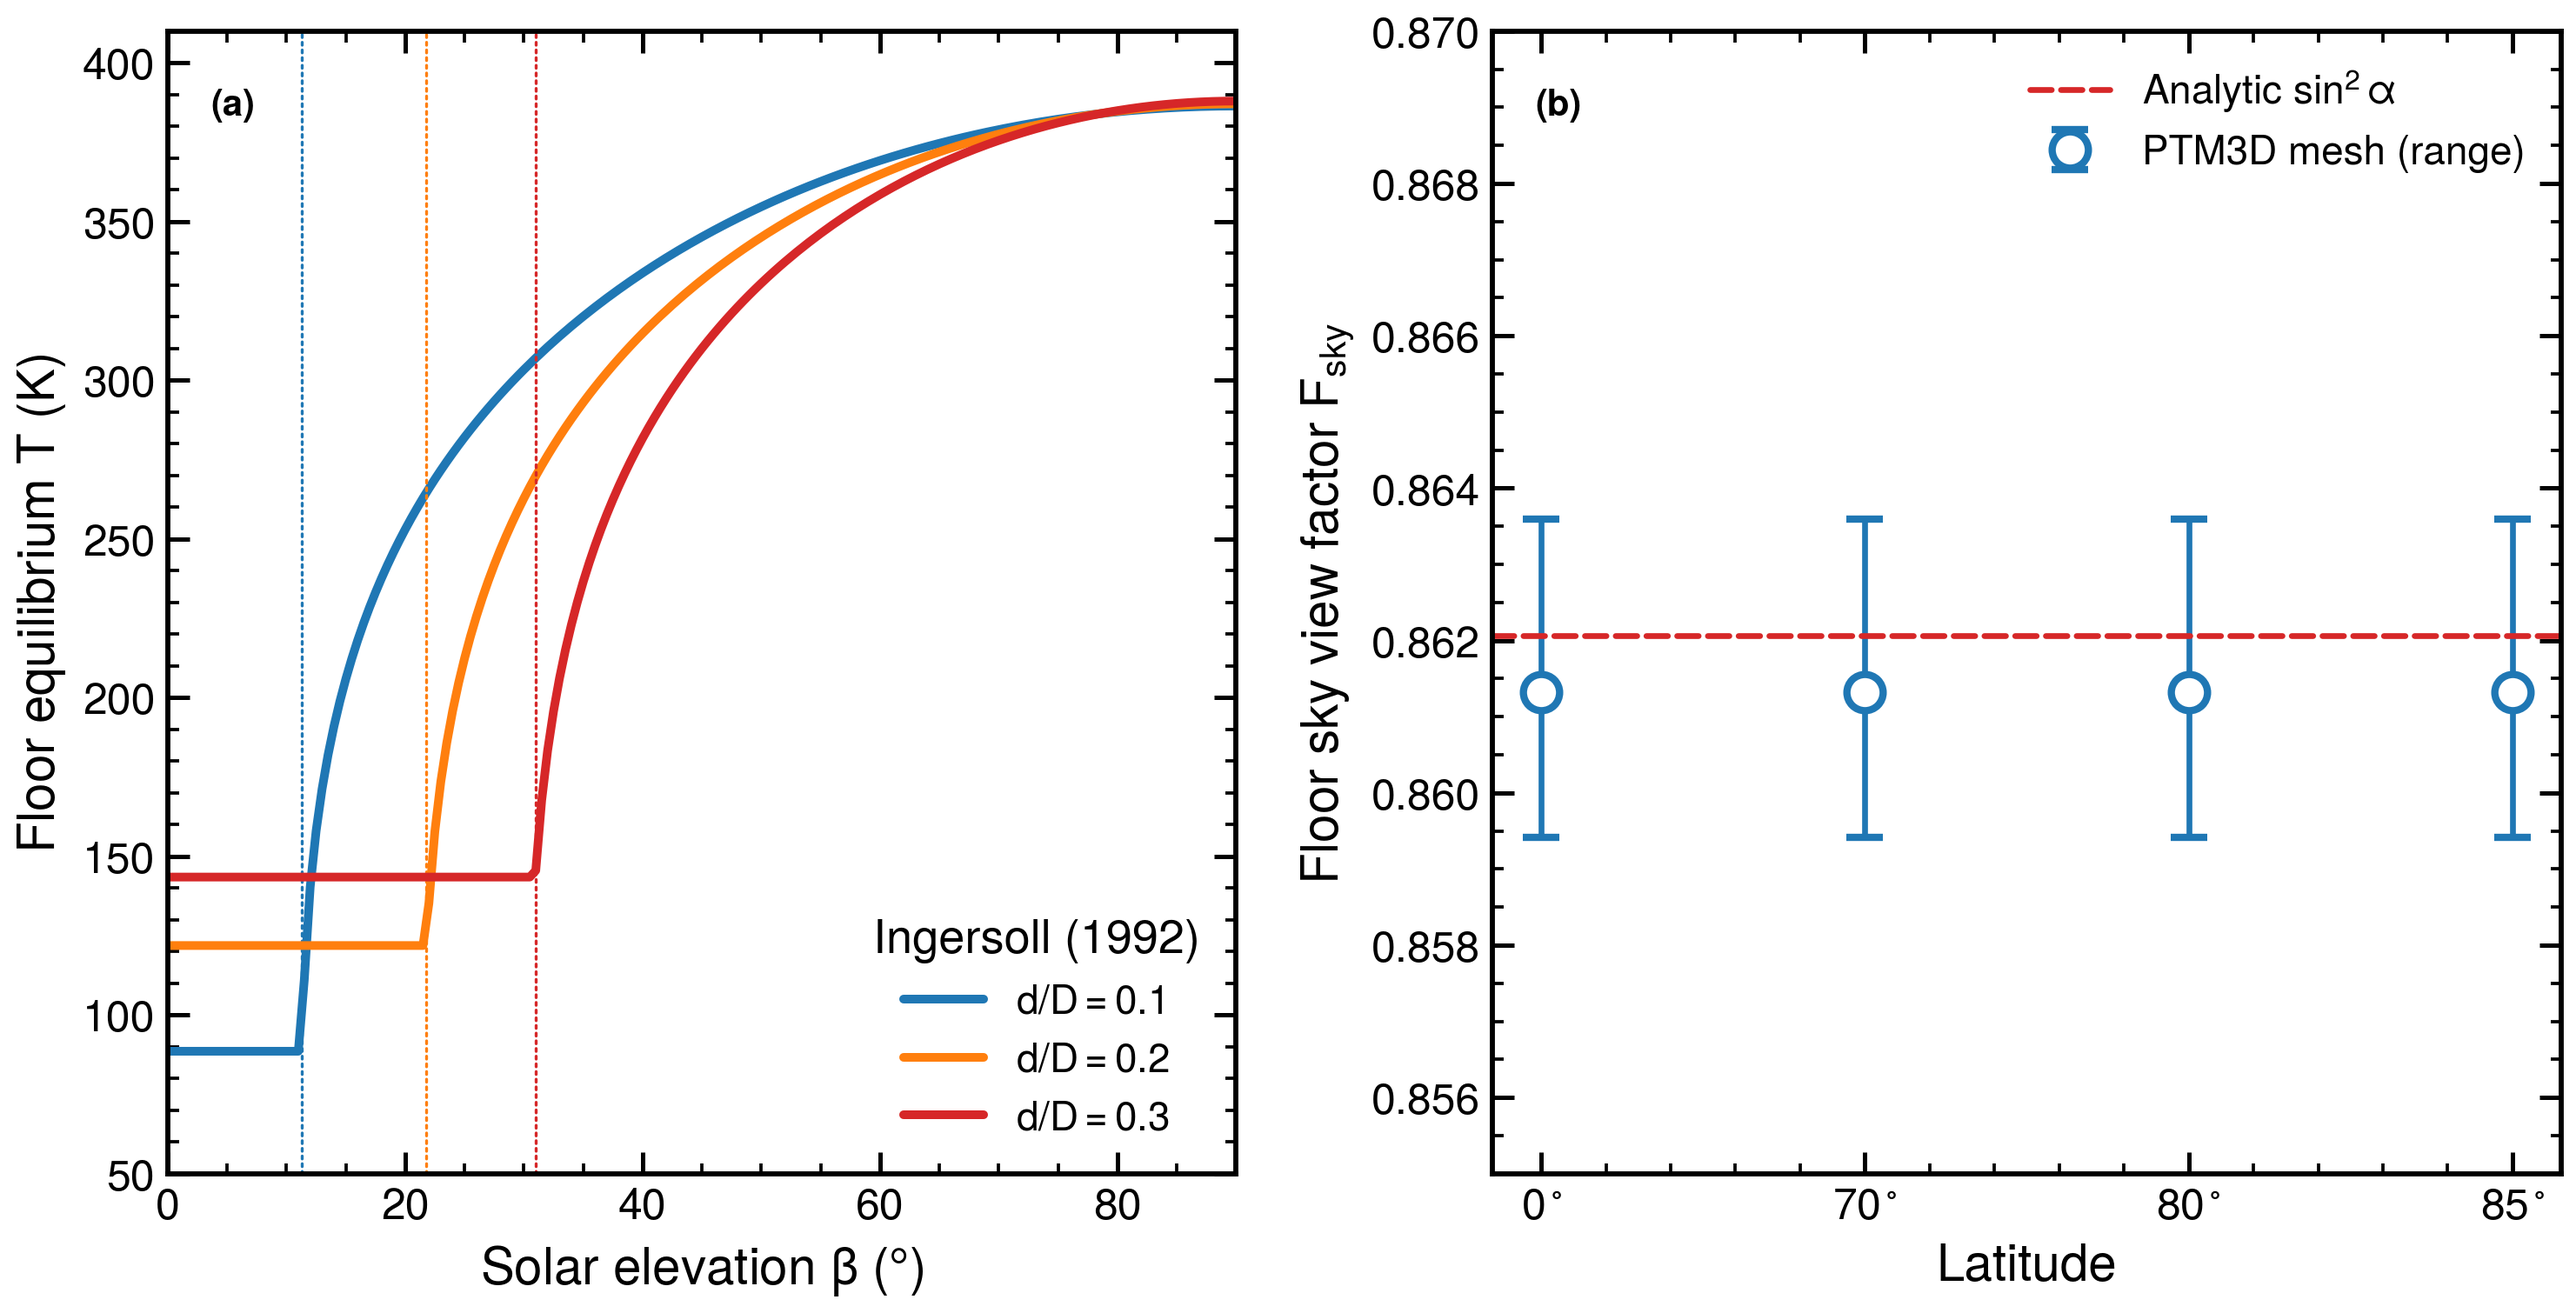
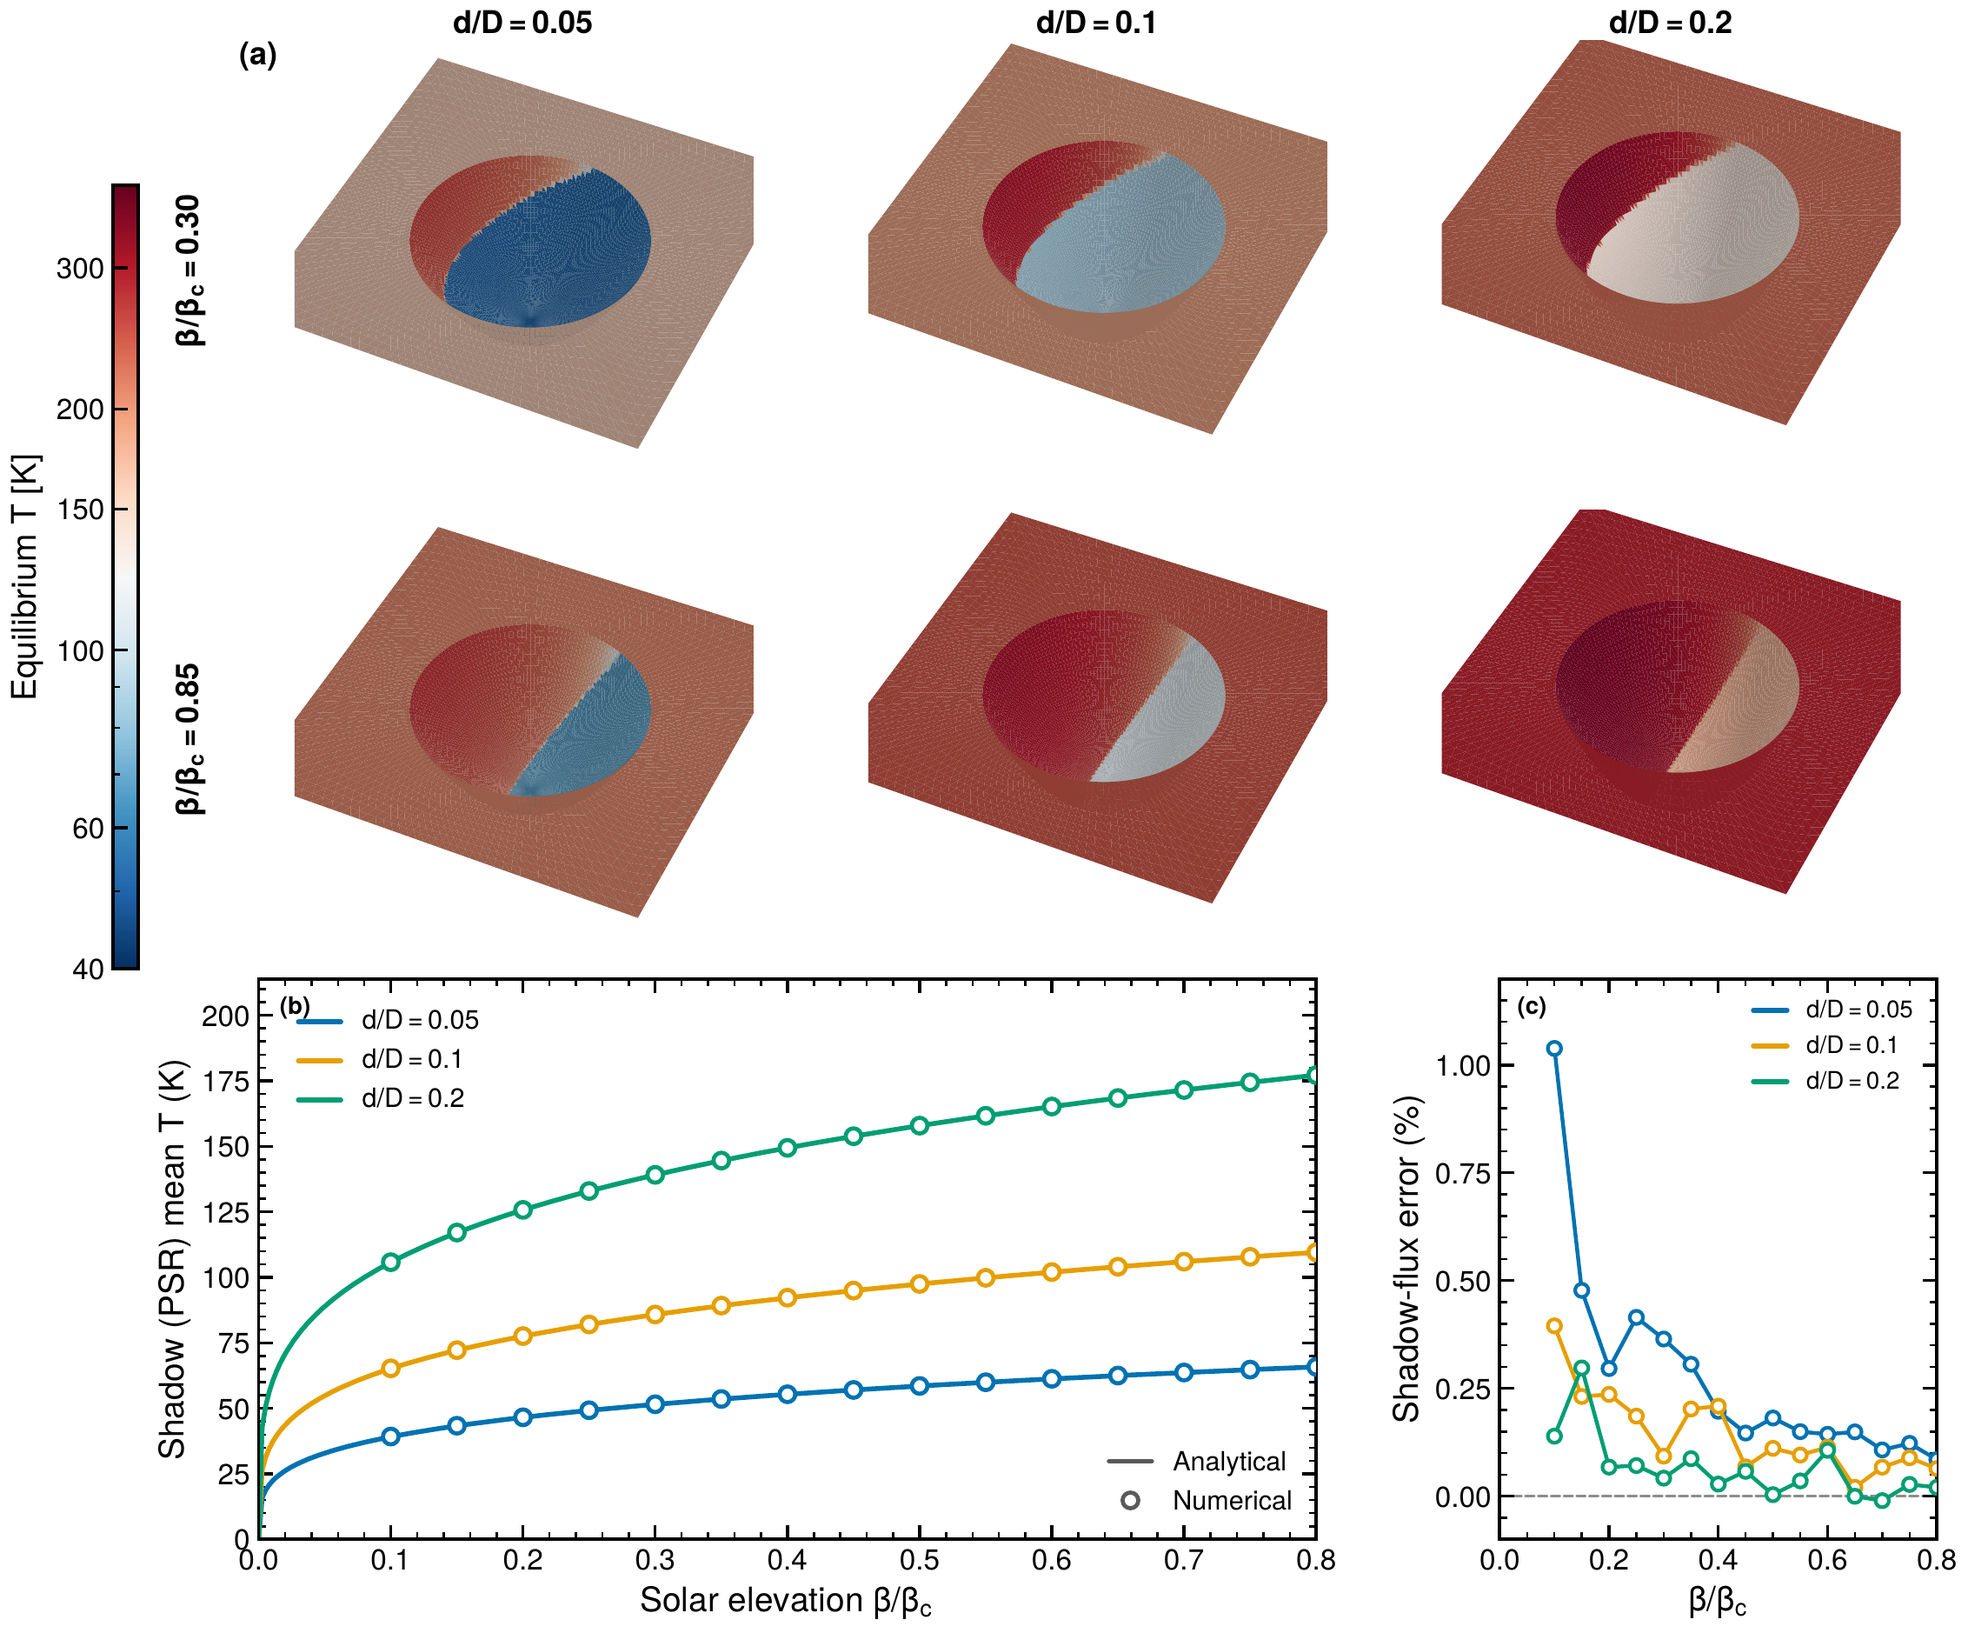
docs(readme): replace validation figures with the submitted-manuscript versions
The previous validation figures (commit 4ffea95) were sourced from
docs/ptm3d-thermal-radiation-methods-paper.md, an in-repo methods-paper draft
that is NOT the paper actually submitted to JGR: Planets. The submitted
source lives at (OneDrive, read-only, not touched):
  /Users/paha3326/Library/CloudStorage/OneDrive-UCB-O365/manuscripts/moon/moon3d

Source match: Moon3D_Paper_v6a.zip (internal file timestamps 2026-08-06
03:22) vs. Moon3D_Paper_v7_JGR.pdf (pdfinfo CreationDate 2026-08-06 16:13,
59 pages) -- v6a is the LaTeX source that was compiled into v7 roughly 13 h
later the same day. Unpacked to ~/projects/moon3d_paper_v7_scratch/v6a (NOT
OneDrive). Rendered fig07.pdf and fig09.pdf at 200/150 dpi via pdftoppm and
visually confirmed they match the corresponding v7 PDF pages (multi-panel
crater renders + 4-panel Diviner scatter, same content, same panel labels).

Figures identified from main.tex captions, not filenames (main.tex's own
\subsection{Validation} has three \subsubsection blocks: "Thermal model
validation" (Fig. 5, fig05.pdf), "Illumination model validation" (no new
figure), "Radiation exchange model validation" (Figs. 7-9, fig07-09.pdf)):

- docs/figures/validation_bowl_crater_ingersoll.png <- fig07.pdf (200 dpi,
  1.36 MB), \label{fig:bowl-crater}, main.tex:555-561. Ingersoll et al.
  (1992) bowl-crater test at full manuscript resolution (15,840 faces):
  PSR mean temperature within 0.1 K (<=0.26%), shadow flux within 1.2%.
[…]

diff --git a/README.md b/README.md
@@ -84,30 +84,36 @@ and thermal emission from surrounding terrain.*
   reproduces the analytic wall view factor to **0.49%** and satisfies view-factor
   reciprocity to machine precision. It is the gate every radiation change has to
   pass; the CPU build and this gate are wired into the repository's CI workflow
-  ([`.github/workflows/ci.yml`](.github/workflows/ci.yml), Linux + macOS)
-- **Diviner Lunar Radiometer Experiment** (compared via the Hayne et al. 2017
-  Diviner-derived lunar regolith model, not a direct replay of raw radiometer
-  counts): PTM3D's post-sunset cooling curve matches the published reference
-  points to **0.97 K RMS** across fifteen nighttime samples spanning three
-  latitudes
+  ([`.github/workflows/ci.yml`](.github/workflows/ci.yml), Linux + macOS). The
+  same comparison at full manuscript resolution (15,840 faces, swept solar
+  elevation) matches the analytic permanently-shadowed-interior temperature to
+  **0.1 K (≤0.26%)** and the analytic shadow flux to **≤1.2%**
+- **Diviner Lunar Radiometer Experiment**: PTM3D vs. the Williams et al. (2019)
+  seasonal south-polar bolometric temperature product at a Haworth-crater
+  cold-trap site (88.18°S, 6.04°E) — the previously reported PSR cold bias is
+  largely eliminated. Deep-floor (Diviner summer max < 110 K) summer-maximum
+  bias is **+1.9 K** on average (cross-checked at +1.1 K on a second,
+  independently-centered mesh), with **11 K / 6 K RMS** (summer/winter mean)
+  over the full 250 m-cell comparison window
 - **Hayne et al. (2017)** 1D thermophysical model: reproduces the lunar
   equatorial diurnal cycle (noon ~388 K, night ~99 K)
 
 ![Ingersoll bowl-crater radiation-exchange validation](docs/figures/validation_bowl_crater_ingersoll.png)
-*PTM3D vs. the analytic two-zone bowl-crater solution of Ingersoll, Svitek &
-Murray (1992). **(a)** Floor equilibrium temperature vs. solar elevation for
-three crater depth-to-diameter ratios — PTM3D curves are visually
-indistinguishable from the analytic solution. **(b)** Floor sky-view-factor
-F_sky from the PTM3D mesh (circles, per-face range) vs. the analytic value
-sin²α (dashed line): agreement within 0.49%.*
+*PTM3D vs. the analytic bowl-crater solution of Ingersoll, Svitek & Murray
+(1992) — Fig. 7 of the submitted Moon3D manuscript. **(a)** Equilibrium
+temperature renders for three crater depth-to-diameter ratios at two solar
+elevations. **(b)** Permanently-shadowed-interior mean temperature vs. solar
+elevation: numerical (circles) vs. analytic (lines), agreement within 0.1 K
+(≤0.26%). **(c)** Shadow-flux error relative to the analytic solution, ≤1.2%.*
 
-![Diviner / Hayne et al. (2017) lunar surface-temperature validation](docs/figures/validation_lunar_diviner_hayne2017.png)
-*PTM3D global lunar surface temperatures (327,680-face icosphere) vs. the
-Hayne et al. (2017) Diviner-derived lunar regolith model. **(a)** Equatorial
-diurnal cycle, with Hayne (2017) peak/midnight/post-dawn-minimum reference
-points overlaid. **(b)** Post-sunset cooling at 0°, 30°, and 60° latitude vs.
-Hayne (2017) reference points — 0.97 K RMS across the fifteen plotted
-nighttime points.*
+![Diviner seasonal PSR temperature validation](docs/figures/validation_diviner_seasonal_psr_scatter.png)
+*Modeled (PTM3D) vs. Diviner bolometric temperature for every valid 250 m
+cell of a Haworth-crater SE-rim comparison window (88.18°S, 6.04°E) — Fig. 9
+of the submitted Moon3D manuscript (site map and per-statistic difference
+maps are its companion Fig. 8, not reproduced here). Filled contours show
+point density for the radiation-coupled run; the gray line is 1:1. Deep-floor
+summer-maximum bias is +1.9 K; RMS is 11 K (summer mean) / 6 K (winter mean)
+over the full window.*
 
 ## Get started
 
